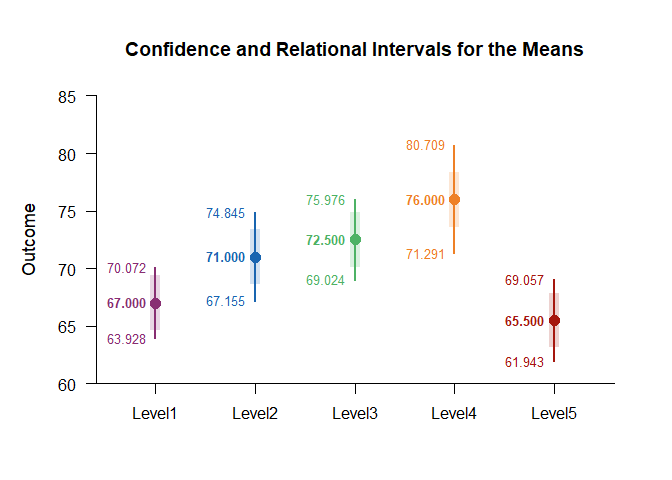
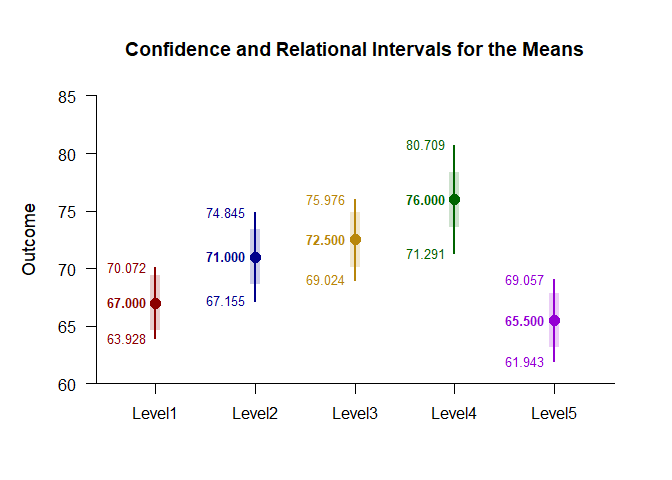
Updated relational intervals application

diff --git a/docs/applications/RelationalRepeatedMeasuresDataApplication.md b/docs/applications/RelationalRepeatedMeasuresDataApplication.md
@@ -1,3 +1,26 @@
+---
+title: "Estimation Approach to Statistical Inference"
+author: "Craig A. Wendorf"
+date: "2023-09-18"
+output:
+  html_document:
+    toc: true
+    toc_float: true
+    toc_depth: 4
+    collapse: true
+    theme: cerulean
+    highlight: tango
+    keep_md: TRUE
+vignette: >
+  %\VignetteIndexEntry{Relational Repeated Measures Data Application}
+  %\VignetteEngine{knitr::rmarkdown}
+  %\VignetteEncoding{UTF-8}
+---
+
+
+
+
+
 ## Relational Repeated Measures Data Application
 
 This page examines means and mean differences with relational and arelational intervals using repeated-measures (within-subjects) data.
@@ -82,8 +105,8 @@ Provide and plot estimates of the arelational and relational intervals.
 Enhance the plot by adding color.
 
 ```r
-colorTheme=c('#882e72','#1965b0','#4eb265','#ee8026','#a5170e')
-(RepeatedData) |> plotMeansRelational(col=colorTheme)
+customTheme=c('darkred','darkblue','darkgoldenrod','darkgreen','darkviolet')
+(RepeatedData) |> plotMeansRelational(col=customTheme)
 ```
 
 ![](figures/Relational-Repeated-RelationalB-1.png)<!-- -->

diff --git a/docs/applications/RelationalOneWayDataApplication.md b/docs/applications/RelationalOneWayDataApplication.md
@@ -1,3 +1,26 @@
+---
+title: "Estimation Approach to Statistical Inference"
+author: "Craig A. Wendorf"
+date: "2023-09-18"
+output:
+  html_document:
+    toc: true
+    toc_float: true
+    toc_depth: 4
+    collapse: true
+    theme: cerulean
+    highlight: tango
+    keep_md: TRUE
+vignette: >
+  %\VignetteIndexEntry{Relational OneWay Data Application}
+  %\VignetteEngine{knitr::rmarkdown}
+  %\VignetteEncoding{UTF-8}
+---
+
+
+
+
+
 ## Relational OneWay Data Application
 
 This page examines means and mean differences with relational and arelational intervals using one-way (between-subjects) data.
@@ -78,8 +101,8 @@ Provide and plot estimates of the arelational and relational intervals.
 Enhance the plot by adding color.
 
 ```r
-colorTheme=c('#882e72','#1965b0','#4eb265','#ee8026','#a5170e')
-(Outcome~Factor) |> plotMeansRelational(col=colorTheme)
+customTheme=c('darkred','darkblue','darkgoldenrod','darkgreen','darkviolet')
+(Outcome~Factor) |> plotMeansRelational(col=customTheme)
 ```
 
 ![](figures/Relational-OneWay-RelationalB-1.png)<!-- -->
